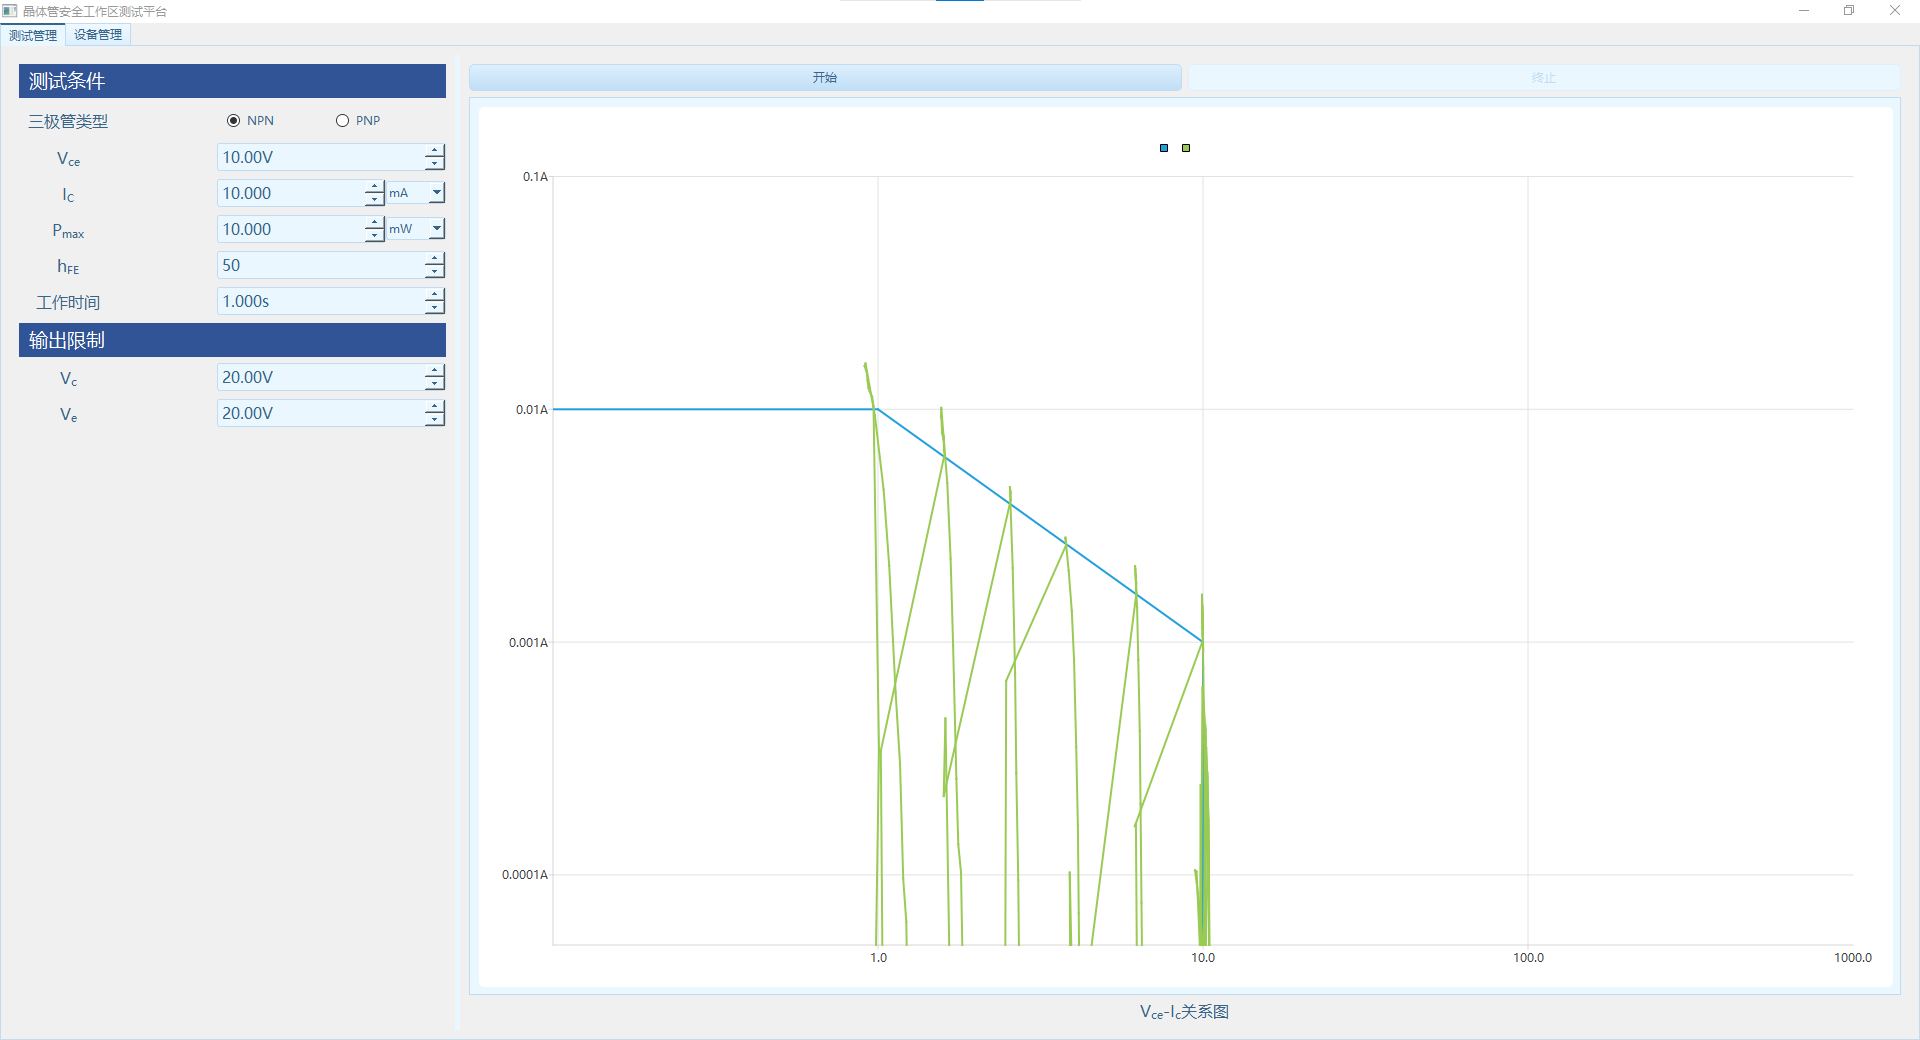
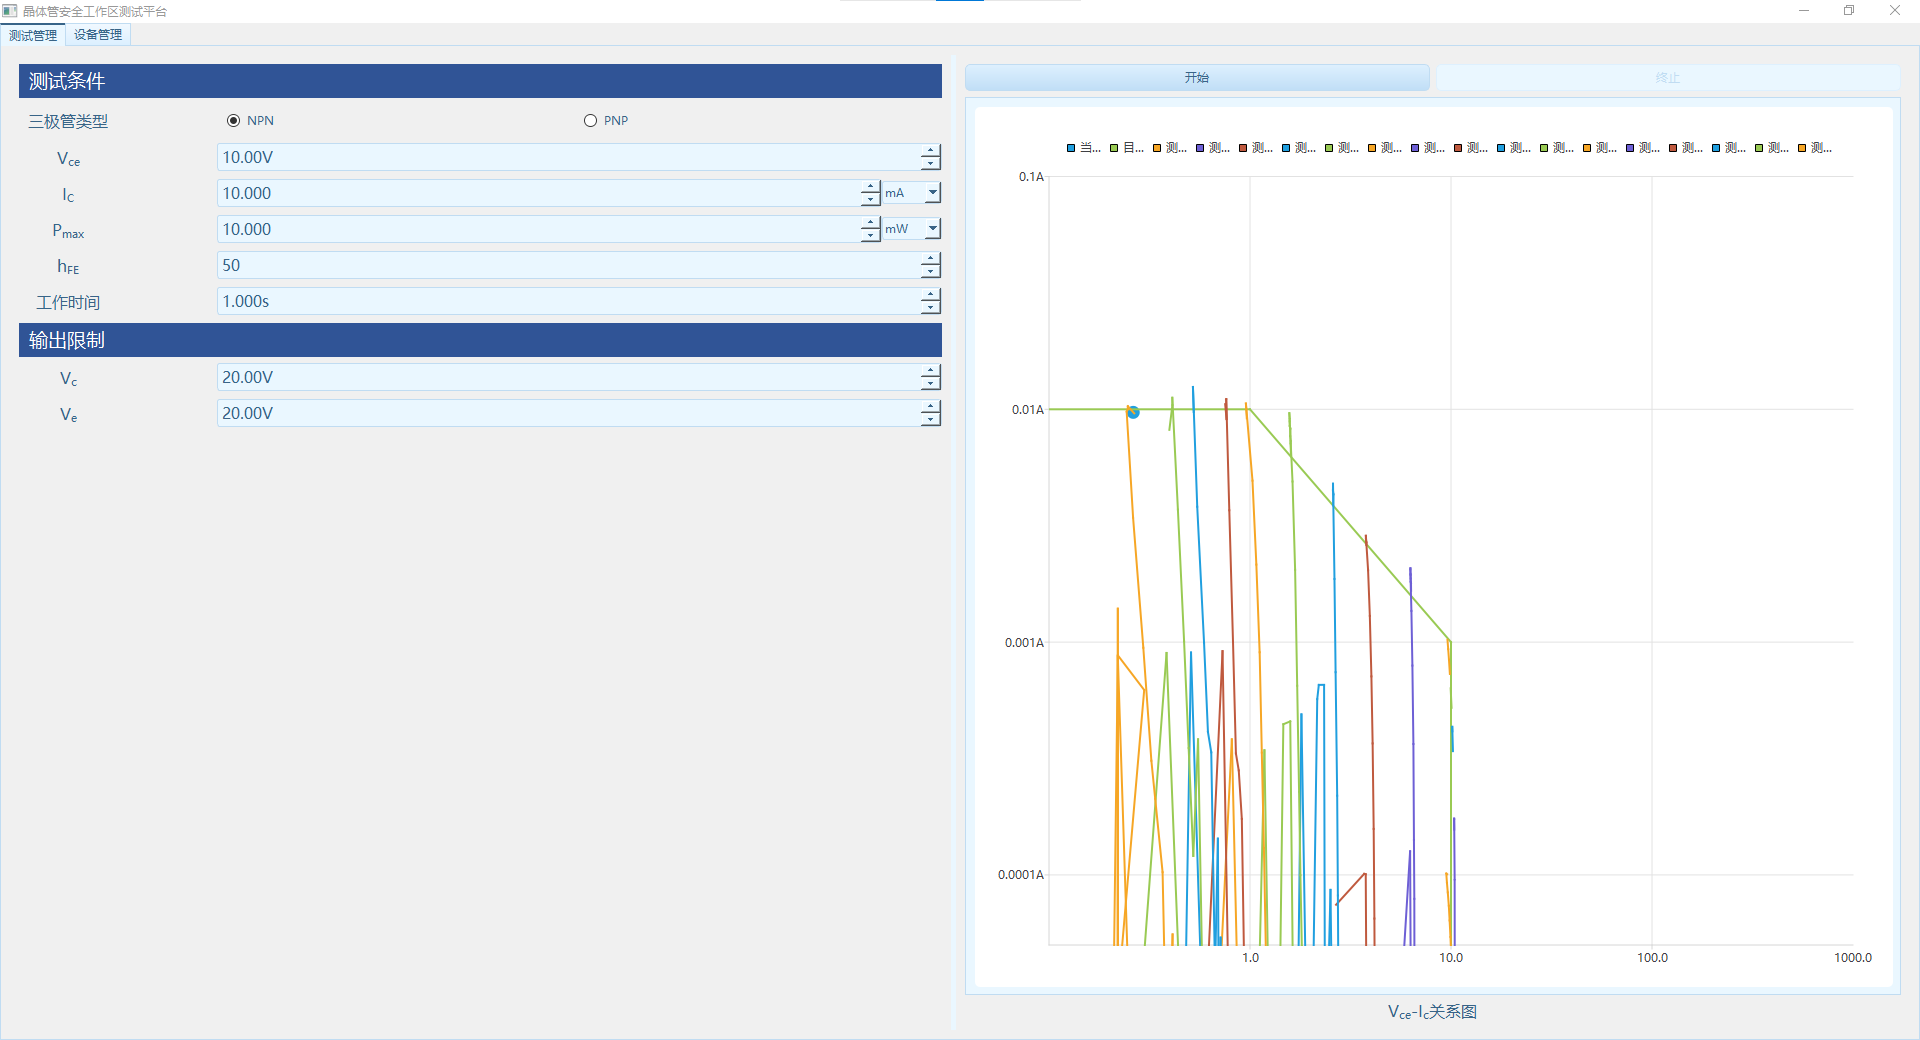
增加 trace，Vc Ve 要同时调整

diff --git a/src/context.py b/src/context.py
@@ -9,6 +9,9 @@ from .power import PowerCV
 
 log = logging.getLogger(__name__)
 
+class Cancellation(Exception):
+    pass
+
 @dataclass
 class Argument:
     type: Literal['NPN', 'PNP']
@@ -64,9 +67,9 @@ def as_str(result):
     return ', '.join(f'{key}={ss(value)}' for key, value in asdict(result).items())
 
 def direction(value, target, range = 0.05):
-    if value < target * (1 - range):
+    if abs(value) < target * (1 - range):
         return -1
-    elif value > target * (1 + range):
+    elif abs(value) > target * (1 + range):
         return 1
     else:
         return 0
@@ -78,6 +81,7 @@ class Context(QObject):
     pnp_tested = Signal(PnpResult)
     errorOccurred = Signal(str)
     test_point_matched = Signal(float, float, float, float)
+    new_target_started = Signal(float, float)
 
     DMM1: Meter
     DMM2: Meter
@@ -97,7 +101,7 @@ class Context(QObject):
         with ExitStack() as stack:
             self._mutex.lock()
             stack.callback(self._mutex.unlock)
-            if self._paused: raise Exception('终止测试')
+            if self._paused: raise Cancellation()
 
     def abort(self):
         with ExitStack() as stack:
@@ -161,6 +165,10 @@ class Context(QObject):
             else:
                 self.run_pnp()
             self.stateChanged.emit('pass')
+        except Cancellation:
+            log.warning('终止测试')
+            self.errorOccurred.emit('终止测试')
+            self.stateChanged.emit('fail')
         except Exception as e:
             log.exception('运行出现错误')
             self.errorOccurred.emit(str(e))
@@ -185,7 +193,7 @@ class Context(QObject):
             if Ve < 0: raise Exception('Ve 匹配失败，请重新测试')
 
             key = (Vc, Ve, Re, Rc)
-            if key in caches: return caches[key]
+            # if key in caches: return caches[key]
 
             results = self._test_no_cache(Vc, Ve)
             xresult = NpnResult(
@@ -199,7 +207,7 @@ class Context(QObject):
                 Rc=Rc,
                 Re=Re,
             )
-            log.debug(f'[test:{time.time() - self.begin:.3f}s] {as_str(xresult)}')
+            log.info(f'[test:{time.time() - self.begin:.3f}s] {as_str(xresult)}')
             self.npn_tested.emit(xresult)
 
             cache = (xresult.Vce, xresult.Ic)
@@ -207,26 +215,39 @@ class Context(QObject):
             return cache
         
         def search_point(target_Vce: float, target_Ic: float):
-            Req = target_Vce / target_Ic * 0.1
+            Req = target_Vce / target_Ic
             Re, Rc = self.R.set_resists(Req, Req)
+            log.info(f'{Req = }, {Rc = }, {Re = }')
 
             # 匹配 (Vce, 0)
             Vc = target_Vce * 0.7
             Ve = 0
             while True:
                 Vce, Ic = _test(Vc, Ve, Rc, Re)
+                exp = math.floor(math.log(abs(Vce - target_Vce), 10))
+                adjust = 10 ** max(-2, exp)
                 match direction(Vce, target_Vce):
                     case -1:
                         log.debug(f'adjust Vce lower')
-                        Vc += 1
+                        Vc += adjust
                         continue
+                    case 0:
+                        log.debug(f'match 1')
+                        break
+                    case 1:
+                        break
+
+            while True:
+                match direction(Vce, target_Vce):
+                    case -1:
+                        break
                     case 0:
                         log.debug(f'match 1')
                         break
                     case 1:
                         log.debug(f'adjust Vce upper')
                         Vc -= 0.1
-                        continue
+                Vce, Ic = _test(Vc, Ve, Rc, Re)
 
             # 匹配 (Vce, 0) => (Vce, Ic)
             while True:
@@ -234,29 +255,37 @@ class Context(QObject):
                 match direction(Ic, target_Ic):
                     case -1:
                         log.debug(f'adjust Ic lower')
+                        Vc += 0.1
                         Ve += 0.1
                         continue
-                    case 0:
-                        while True:
-                            exp = math.floor(math.log(abs(Vce - target_Vce), 10))
-                            adjust = 10 ** max(-2, exp)
+                    case _:
+                        break
 
-                            match direction(Vce, target_Vce):
-                                case -1:
-                                    Vc += adjust
-                                    log.debug(f'adjust Vce lower {Vc}')
-                                case 0:
-                                    log.debug(f'-- match {(target_Vce, target_Ic)} => {(Vc, Ve, Vce, Ic)}')
-                                    return Vc, Ve, Vce, Ic
-                                case 1:
-                                    Vc -= adjust
-                                    log.debug(f'adjust Vce upper {Vc}')
-                            Ve += direction(Ic, target_Ic, 0.1) * 0.01
-                            Vce, Ic = _test(Vc, Ve, Rc, Re)
+            while True:
+                match direction(Ic, target_Ic):
                     case 1:
                         log.debug(f'adjust Ic upper')
                         Ve -= 0.01
-                        continue
+                    case _:
+                        break
+                Vce, Ic = _test(Vc, Ve, Rc, Re)
+
+            while True:
+                exp = math.floor(math.log(abs(Vce - target_Vce), 10))
+                adjust = 10 ** max(-2, exp)
+
+                match direction(Vce, target_Vce):
+                    case -1:
+                        Vc += adjust
+                        log.debug(f'adjust Vce lower {Vc}')
+                    case 0:
+                        log.info(f'-- match {(target_Vce, target_Ic)} => {(Vc, Ve, Vce, Ic)}')
+                        return Vc, Ve, Vce, Ic
+                    case 1:
+                        Vc -= adjust
+                        log.debug(f'adjust Vce upper {Vc}')
+                Ve += direction(Ic, target_Ic, 0.1) * 0.01
+                Vce, Ic = _test(Vc, Ve, Rc, Re)
 
         points: list[tuple[float, float]] = []
         
@@ -284,6 +313,7 @@ class Context(QObject):
 
         # 开始测试
         for Vce, Ic in points:
+            self.new_target_started.emit(Vce, Ic)
             Vc, Ve, Vce, Ic = search_point(Vce, Ic)
             self.test_point_matched.emit(Vc, Ve, Vce, Ic)
 
@@ -388,6 +418,7 @@ class Context(QObject):
         points.extend((v, i) for v, i in zip(Vce, Ic))
 
         for target_Vce, target_Ic in points:
+            self.new_target_started.emit(target_Vce, target_Ic)
             Vc, Ve, Vce, Ic = search_point(target_Vce, target_Ic)
             self.test_point_matched.emit(Vc, Ve, Vce, Ic)
 

diff --git a/src/test.py b/src/test.py
@@ -28,20 +28,27 @@ class Chart(QtCharts.QChart):
         self.ay.setLabelFormat('%.0gA')
         self.addAxis(self.ax, Qt.AlignmentFlag.AlignBottom)
         self.addAxis(self.ay, Qt.AlignmentFlag.AlignLeft)
+
+        self.traces = []
         self.trace: QtCharts.QLineSeries | None = None
+
         self.curren_point = QtCharts.QScatterSeries(self)
+        self.addSeries(self.curren_point)
+        self.curren_point.attachAxis(self.ay)
+        self.curren_point.attachAxis(self.ax)
         self.curren_point.setName('当前测试点') 
 
     def make_new_trace(self):
-        if self.trace:
-            self.removeSeries(self.trace)
-        line_vce_ic = QtCharts.QLineSeries(self)
-        line_vce_ic.setName('测试值')
+        self.trace = QtCharts.QLineSeries(self)
+        self.trace.setName('测试值')
+        self.addSeries(self.trace)
+        self.trace.attachAxis(self.ax)
+        self.trace.attachAxis(self.ay)
+        self.traces.append(self.trace)
 
-        self.addSeries(line_vce_ic)
-        line_vce_ic.attachAxis(self.ax)
-        line_vce_ic.attachAxis(self.ay)
-        self.trace = line_vce_ic
+    def reset_traces(self):
+        for trace in self.traces:
+            self.removeSeries(trace)
     
     @Slot()
     def add_test_point(self, Vc: float, Ve: float, Vce: float, Ic: float):
@@ -145,7 +152,7 @@ class TestPanel(QtWidgets.QWidget):
         self.ui.btnStop.setEnabled(running)
 
     def reset_chart(self):
-        self.chart_vce_ic.make_new_trace()
+        self.chart_vce_ic.reset_traces()
 
     @Slot()
     def add_npn_results(self, results: NpnResult):
@@ -155,6 +162,10 @@ class TestPanel(QtWidgets.QWidget):
             Vce=results.Vce,
             Ic=results.Ic,
         )
+
+    @Slot()
+    def add_new_trace(self, Vce, Ic):
+        self.chart_vce_ic.make_new_trace()
 
     def save(self):
         return dict(

diff --git a/src/main.py b/src/main.py
@@ -5,6 +5,7 @@ from PySide6.QtCore import Slot, QThread
 from .context import Context
 from .test import TestPanel
 from .device import DevicePanel
+from . import global_logger
 
 class DebugThread(QThread):
     def run(self):
@@ -38,6 +39,7 @@ class MainWindow(QtWidgets.QMainWindow):
         self.tests.abortRequested.connect(self.abort_test)
         self.context.stateChanged.connect(self.update_running_state)
         self.context.npn_tested.connect(self.tests.add_npn_results)
+        self.context.new_target_started.connect(self.tests.add_new_trace)
         self.context.errorOccurred.connect(self.show_error)
 
         self.update_running_state('pass')
@@ -95,14 +97,14 @@ class MainWindow(QtWidgets.QMainWindow):
 
 def main():
     # QtWidgets.QApplication.setDesktopSettingsAware(False)
-    logging.basicConfig(filename='all.log')
-    root = logging.getLogger()
+    logging.basicConfig(filename='all.log', level=logging.DEBUG)
+    
     handler_out = logging.StreamHandler(sys.stdout)
     handler_out.setLevel(logging.DEBUG)
-    root.addHandler(handler_out)
     handler_err = logging.StreamHandler(sys.stderr)
     handler_err.setLevel(logging.WARNING)
-    root.addHandler(handler_err)
+    for h in [handler_out, handler_err]:
+        global_logger.addHandler(h)
 
     app = QtWidgets.QApplication()
     style = Path(__file__).with_name('style.qss')

diff --git a/src/resist.py b/src/resist.py
@@ -42,14 +42,17 @@ class Resist(QObject):
         self.deleteLater()
 
     def _apply(self):
+        if self.port.bytesAvailable(): self.port.readAll()
         cmd = bytes([0xAA, self.res1, self.res2, 0xFF, 0xFF, 0x55])
         xcmd = cmd.hex(" ")
         log.debug(f'try apply: {xcmd}')
         for _ in range(3):
             self.port.write(cmd)
             if self.port.waitForReadyRead(1000):
-                if self.port.readAll() == cmd:
-                    return True
+                response = self.port.readAll()
+                if not response.contains(cmd):
+                    log.warning(f'回复不匹配: {response}')
+                return True
             time.sleep(0.200)
         return False
 

diff --git a/src/__init__.py b/src/__init__.py
@@ -1,0 +1,3 @@
+import logging
+
+global_logger= logging.getLogger(__name__)

diff --git a/TODO.md b/TODO.md
@@ -2,9 +2,6 @@
 
 * 持续工作阶段
 * 测试结果
-* PNP 测试流程
+* 测试流程
 * 说明书
-* 软件打包（系统重装）
-* 仪器选择
 * 电阻箱计量
-* 电源 ARB 脉冲功能
